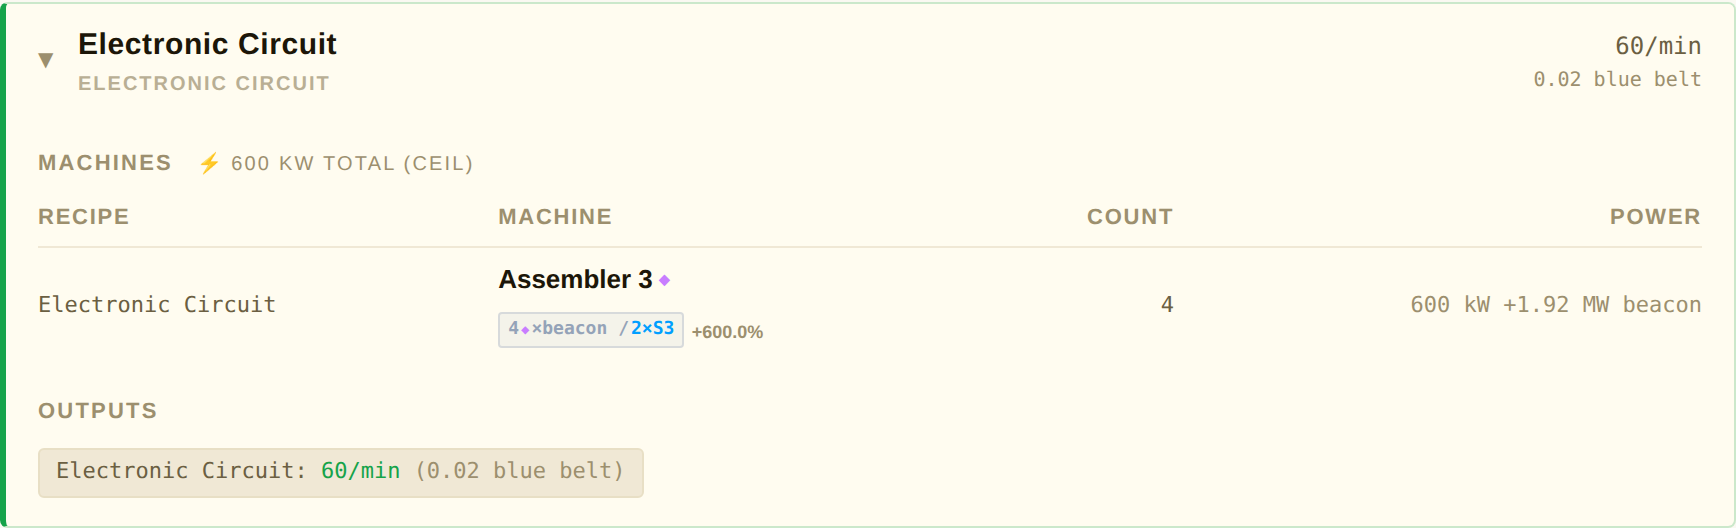
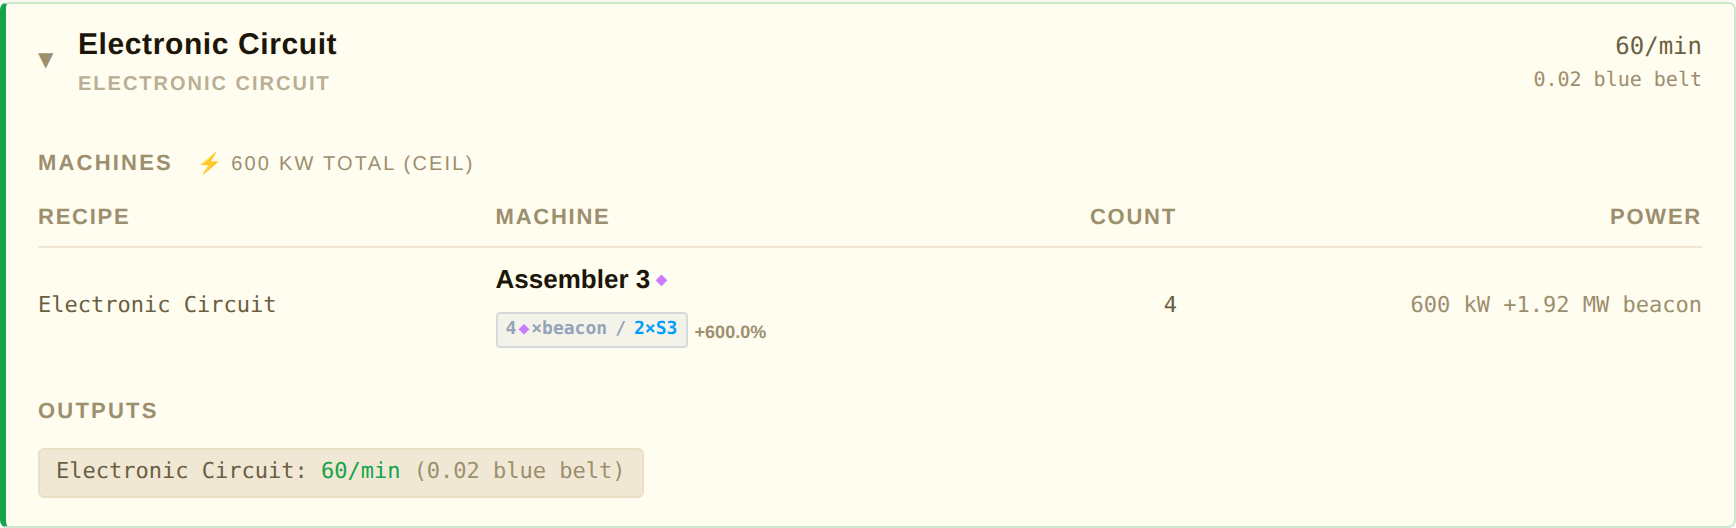
Fix bcn-chip quality dot centering and separator spacing
- Override .qdot to font-size:9px inside .bcn-chip and .mod-chip so
  the ◆ matches the chip's text size and aligns naturally in flexbox
  (the 7px base size had asymmetric glyph metrics causing it to sit low)
- Wrap the / separator in a .bcn-sep span with margin:0 3px to get
  equal spacing on both sides (trailing space in the text flex item
  was being stripped by CSS whitespace collapsing)

https://claude.ai/code/session_01SyKx24fZjBrdm6oV2dN8BW

diff --git a/dev/dashboard.html b/dev/dashboard.html
@@ -321,6 +321,8 @@
     .qdot.q-rare      { color: #6DA8FF; }
     .qdot.q-epic      { color: #C87DFF; }
     .qdot.q-legendary { color: #FFB347; }
+    .bcn-chip .qdot, .mod-chip .qdot { font-size: 9px; }
+    .bcn-sep { margin: 0 3px; }
 
     /* ── Issues ── */
     .issue-item { display: flex; align-items: flex-start; gap: 8px; padding: 10px 12px;
@@ -636,7 +638,7 @@ function bcnChip(b, housingQ) {
     const qdot  = m.quality !== 'normal' ? `<span class="qdot q-${m.quality}">◆</span>` : '';
     return `<span style="color:${color}">${m.count}×${abbr}${m.tier}${qdot}</span>`;
   }).join(' ');
-  return `<span class="bcn-chip">${b.count}${houseDot}×beacon / ${modsHtml}</span>`;
+  return `<span class="bcn-chip">${b.count}${houseDot}×beacon<span class="bcn-sep">/</span>${modsHtml}</span>`;
 }
 
 // ── State ────────────────────────────────────────────────────────────────────
